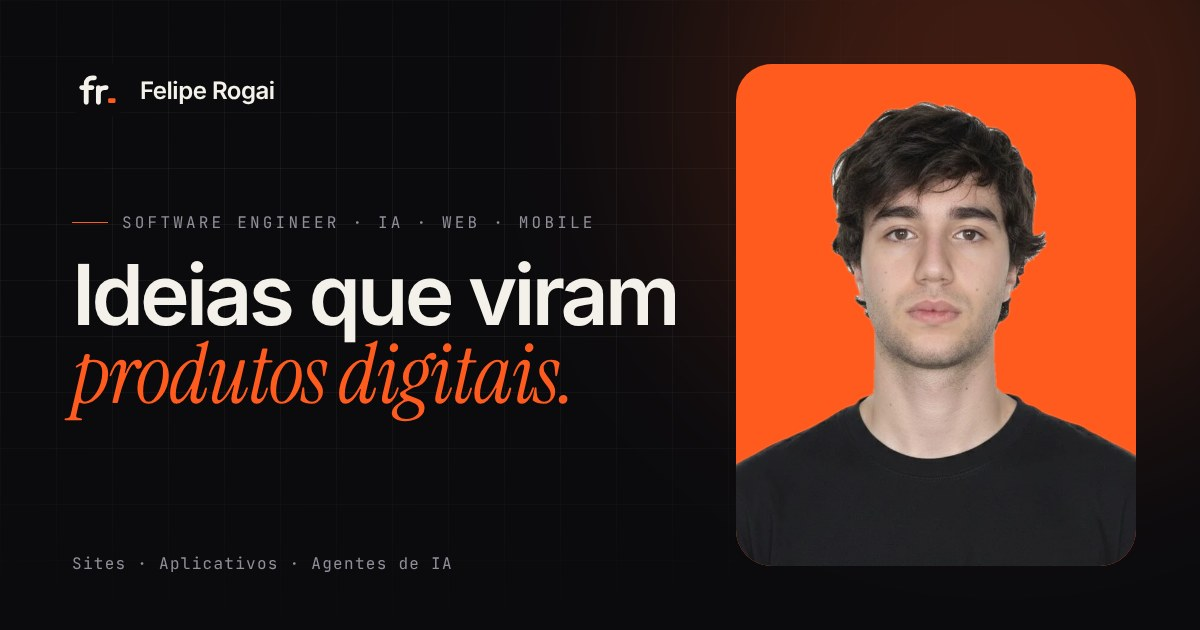
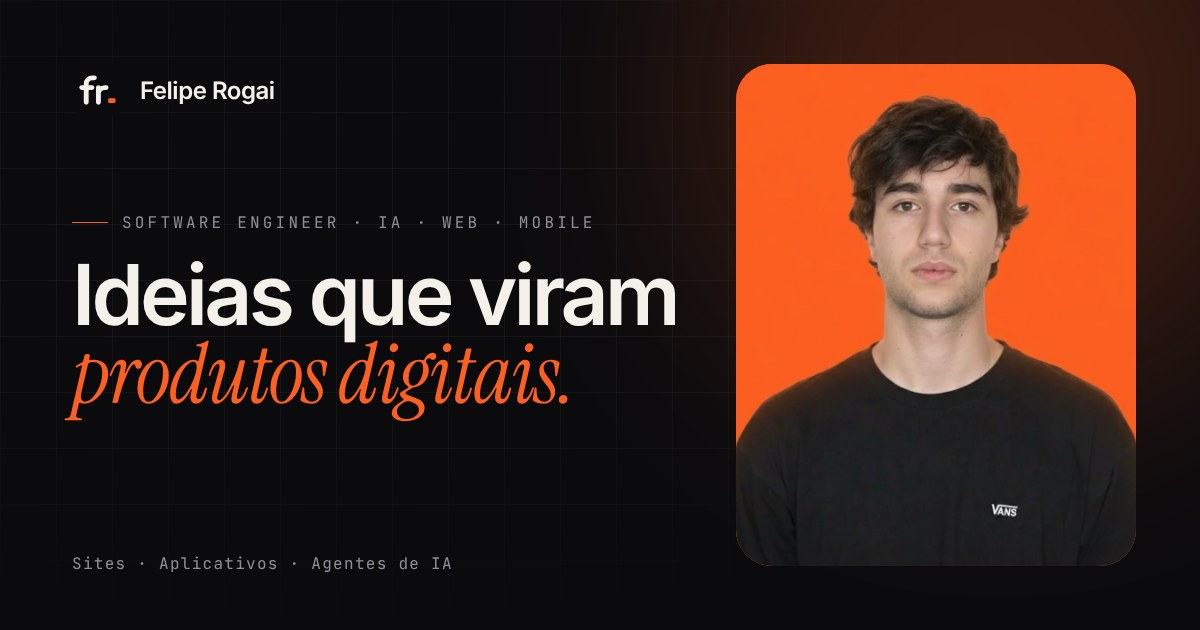
Troca a foto de perfil e corrige o link da Cedro Madeiras
- Usa a nova foto com fundo laranja no hero e na imagem Open Graph
- Ajusta o laranja da marca para combinar com a foto (#FB5F21) e regenera os ícones
- Corrige o projeto para Cedro Madeiras (cedromadeiras.com.br)

Changed region(s): [[0.5858, 0.1508, 0.9558, 0.754], [0.8325, 0.7841, 0.8633, 0.8143]]

diff --git a/app/i18n/translations.ts b/app/i18n/translations.ts
@@ -10,7 +10,7 @@
     buggoDescription: "Aplicativo Android publicado na Google Play, projetado e desenvolvido de ponta a ponta: da experiência do usuário à publicação na loja.",
     caspheonDescription: "Presença digital com layout moderno e responsivo, construída para transmitir credibilidade e ter bom desempenho nas buscas.",
     noonDescription: "Site que leva a atmosfera do lounge para a web e aproxima o público dos canais de contato e das redes sociais.",
-    cedrDescription: "Site institucional com apresentação dos produtos e um caminho direto para pedidos de orçamento.",
+    cedroDescription: "Site institucional com apresentação dos produtos e um caminho direto para pedidos de orçamento.",
     h4Description: "Site com foco em conversão, que apresenta os serviços de forma clara e objetiva em qualquer tela.",
     vfDescription: "Site institucional que apresenta serviços e canais de atendimento com clareza e confiança.",
     topCalcadosDescription: "Site para distribuidora de calçados, com apresentação da empresa e da linha de produtos para lojistas.",
@@ -159,7 +159,7 @@
     buggoDescription: "Aplicación Android publicada en Google Play, diseñada y desarrollada de punta a punta: de la experiencia de usuario a la publicación en la tienda.",
     caspheonDescription: "Presencia digital con diseño moderno y responsivo, construida para transmitir credibilidad y posicionar bien en buscadores.",
     noonDescription: "Sitio que lleva la atmósfera del lounge a la web y acerca al público a sus canales de contacto y redes sociales.",
-    cedrDescription: "Sitio institucional con presentación de productos y un camino directo para solicitar presupuestos.",
+    cedroDescription: "Sitio institucional con presentación de productos y un camino directo para solicitar presupuestos.",
     h4Description: "Sitio enfocado en conversión, que presenta los servicios de forma clara en cualquier pantalla.",
     vfDescription: "Sitio institucional que presenta servicios y canales de atención con claridad y confianza.",
     topCalcadosDescription: "Sitio para una distribuidora de calzado, con presentación de la empresa y su línea de productos para minoristas.",
@@ -308,7 +308,7 @@
     buggoDescription: "Android app published on Google Play, designed and built end to end: from user experience to store release.",
     caspheonDescription: "Digital presence with a modern, responsive layout, built to convey credibility and perform well in search.",
     noonDescription: "Website that brings the lounge's atmosphere to the web and connects visitors with its contact channels and social media.",
-    cedrDescription: "Corporate website showcasing products with a direct path to quote requests.",
+    cedroDescription: "Corporate website showcasing products with a direct path to quote requests.",
     h4Description: "Conversion-focused website that presents services clearly on any screen.",
     vfDescription: "Corporate website presenting services and support channels with clarity and trust.",
     topCalcadosDescription: "Website for a footwear distributor, presenting the company and its product line for retailers.",

diff --git a/app/data/projects.ts b/app/data/projects.ts
@@ -54,7 +54,7 @@ export const projects: Project[] = [
   },
   site("caspheon", "Caspheon", "https://caspheon.com", "caspheonDescription", ["Web Design", "UI/UX", "SEO"]),
   site("nooncafelounge", "Noon Café Lounge", "https://nooncafelounge.com.br", "noonDescription", ["Web Design", "Responsivo", "SEO"]),
-  site("cedrmadeiras", "CEDR Madeiras", "https://cedrmadeiras.com.br", "cedrDescription", ["Web Design", "Catálogo", "SEO"]),
+  site("cedromadeiras", "Cedro Madeiras", "https://cedromadeiras.com.br", "cedroDescription", ["Web Design", "Catálogo", "SEO"]),
   site("h4digital", "H4 Digital", "https://h4digital.com.br", "h4Description", ["Web Design", "Conversão", "SEO"]),
   site("vfelevadores", "VF Elevadores", "https://vfelevadores.com.br", "vfDescription", ["Web Design", "Responsivo", "SEO"]),
   site("topcalcados", "Top Calçados", "https://topcalcadosdistribuidora.com.br", "topCalcadosDescription", ["Web Design", "Catálogo", "Responsivo"]),

diff --git a/app/components/hero.tsx b/app/components/hero.tsx
@@ -98,14 +98,13 @@ export default function Hero() {
         {/* Retrato */}
         <div className="relative mx-auto w-full max-w-md lg:col-span-5 lg:max-w-none">
           <div className="relative aspect-[4/5] overflow-hidden rounded-[2rem] bg-primary">
-            <div className="absolute inset-x-0 bottom-0 h-1/3 bg-gradient-to-t from-black/25 to-transparent" />
             <Image
-              src="/felipe-rogai.webp"
+              src="/felipe-rogai-portrait.webp"
               alt="Felipe Rogai"
               fill
               priority
               sizes="(min-width: 1024px) 40vw, 90vw"
-              className="object-cover object-bottom"
+              className="object-cover object-[50%_35%]"
             />
           </div>
 

diff --git a/app/globals.css b/app/globals.css
@@ -12,19 +12,19 @@
     --card-foreground: 40 30% 94%;
     --popover: 240 9% 8%;
     --popover-foreground: 40 30% 94%;
-    --primary: 16 100% 56%;
+    --primary: 17 96% 56%;
     --primary-foreground: 240 12% 5%;
     --secondary: 28 100% 64%;
     --secondary-foreground: 240 12% 5%;
     --muted: 240 7% 12%;
     --muted-foreground: 240 5% 62%;
-    --accent: 16 100% 56%;
+    --accent: 17 96% 56%;
     --accent-foreground: 240 12% 5%;
     --destructive: 0 84% 60%;
     --destructive-foreground: 0 0% 100%;
     --border: 240 6% 16%;
     --input: 240 6% 16%;
-    --ring: 16 100% 56%;
+    --ring: 17 96% 56%;
     --radius: 1rem;
   }
 }

diff --git a/prompts/system-prompt.md b/prompts/system-prompt.md
@@ -14,7 +14,7 @@ Known facts about Felipe Rogai:
 - Roles/labels: Full Stack & AI Agent Developer; Computer Engineering student.
 - Projects (examples): AI business process automation; OnSmart.AI platform (React, Excel CMS, YouTube API, Formspree, chat + AI agent); Interactive Pokedex (HTML/CSS/JS + PokeAPI).
 - Final-year (TCC) project: Buggo, a mobile app published on Google Play (https://play.google.com/store/apps/details?id=com.buggo.app).
-- Freelance websites: caspheon.com, nooncafelounge.com.br, cedrmadeiras.com.br, h4digital.com.br, vfelevadores.com.br, topcalcadosdistribuidora.com.br.
+- Freelance websites: caspheon.com, nooncafelounge.com.br, cedromadeiras.com.br, h4digital.com.br, vfelevadores.com.br, topcalcadosdistribuidora.com.br.
 
 If asked to contact Felipe, direct to "feliperogai@hotmail.com" or the portfolio contact form. Do not share other contact details.
 
